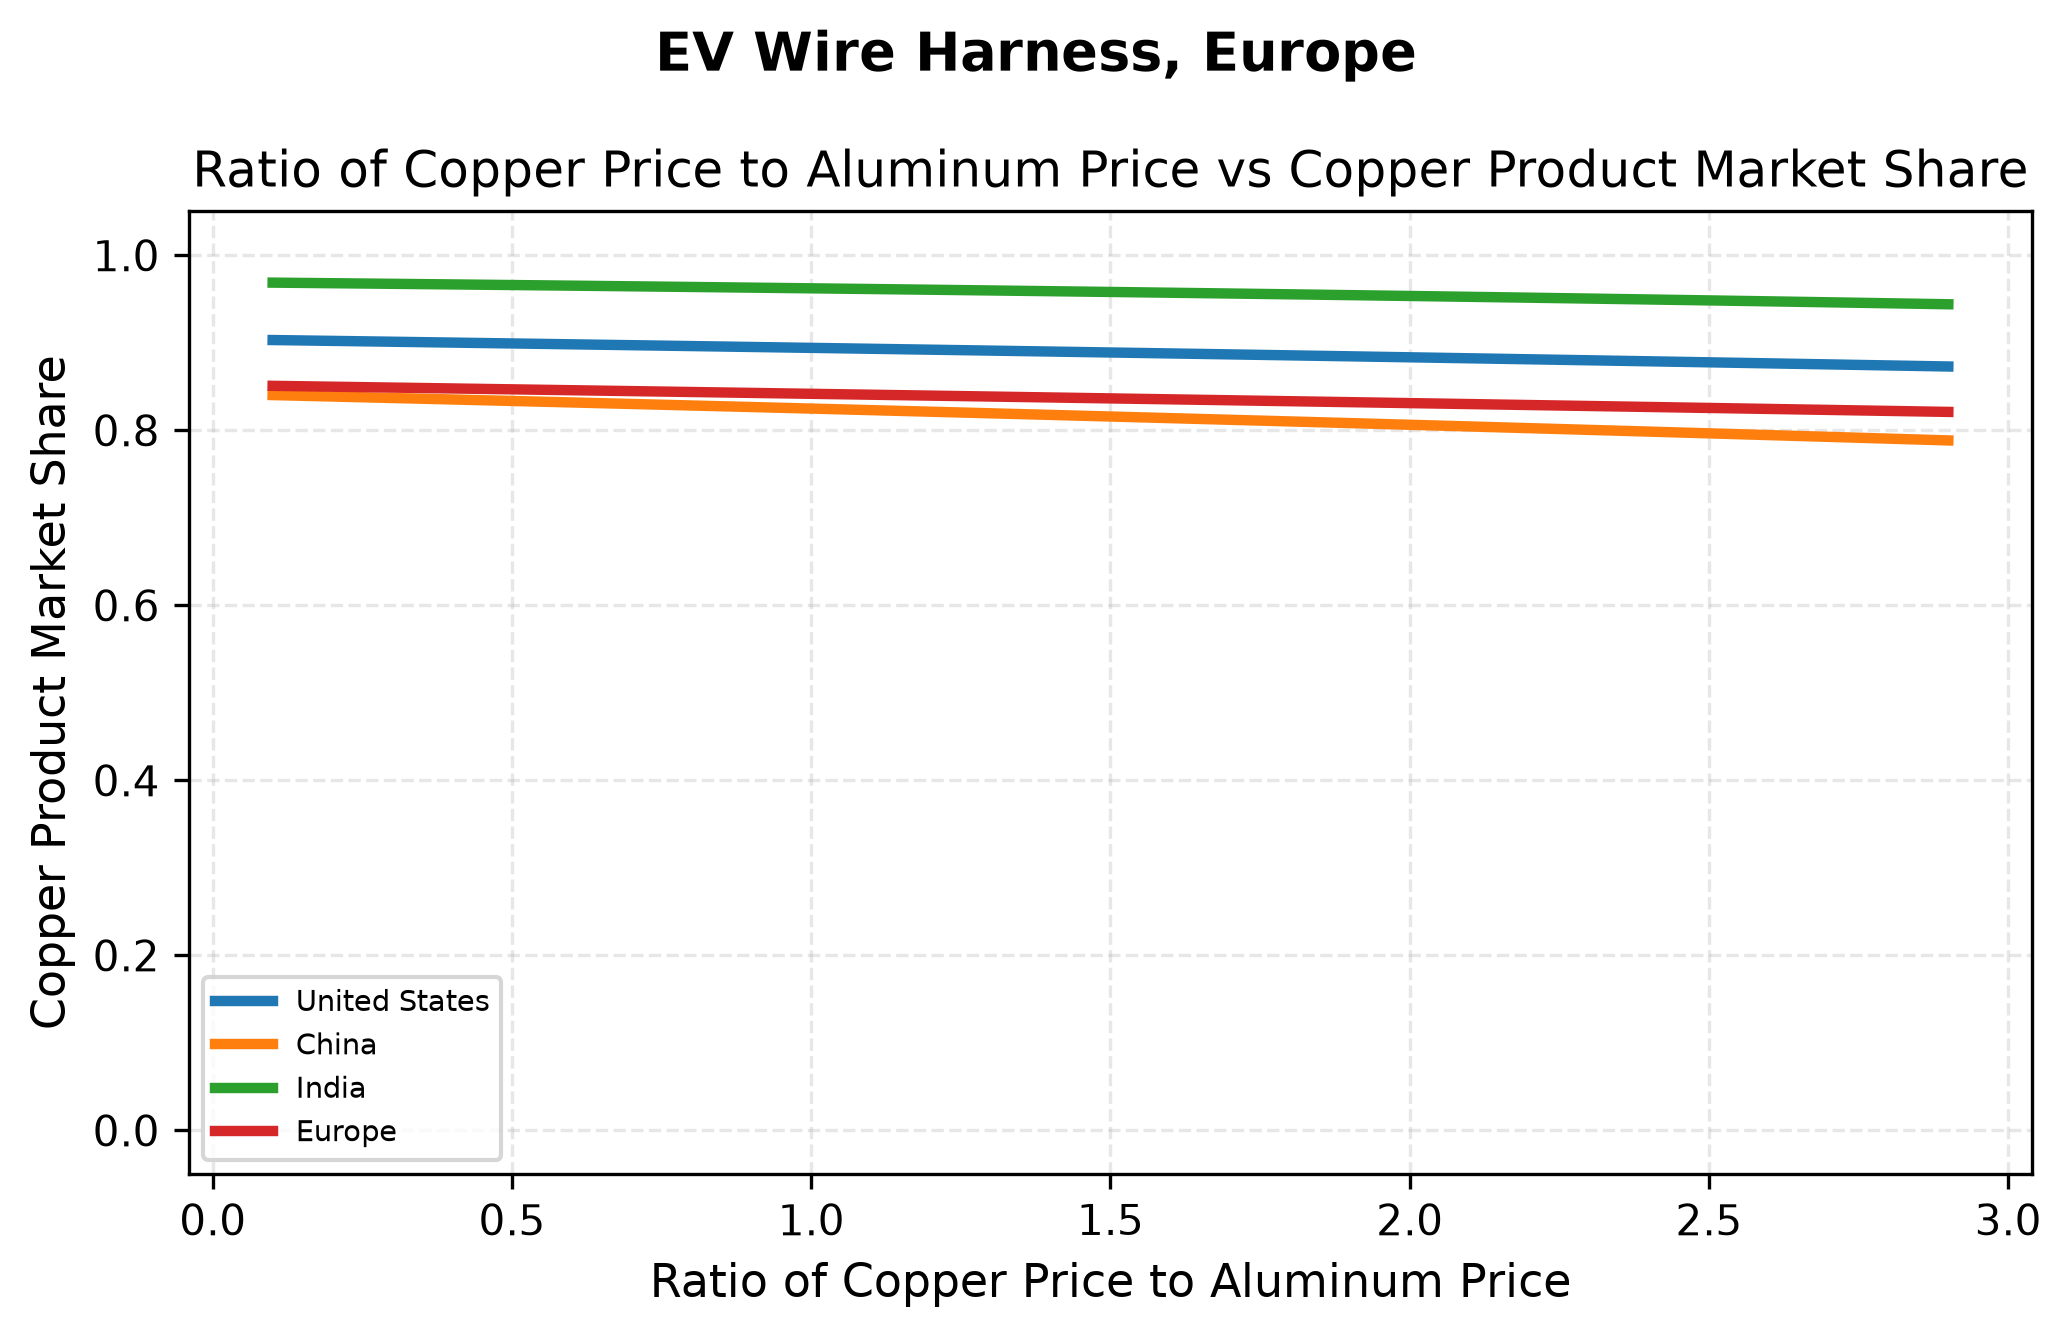
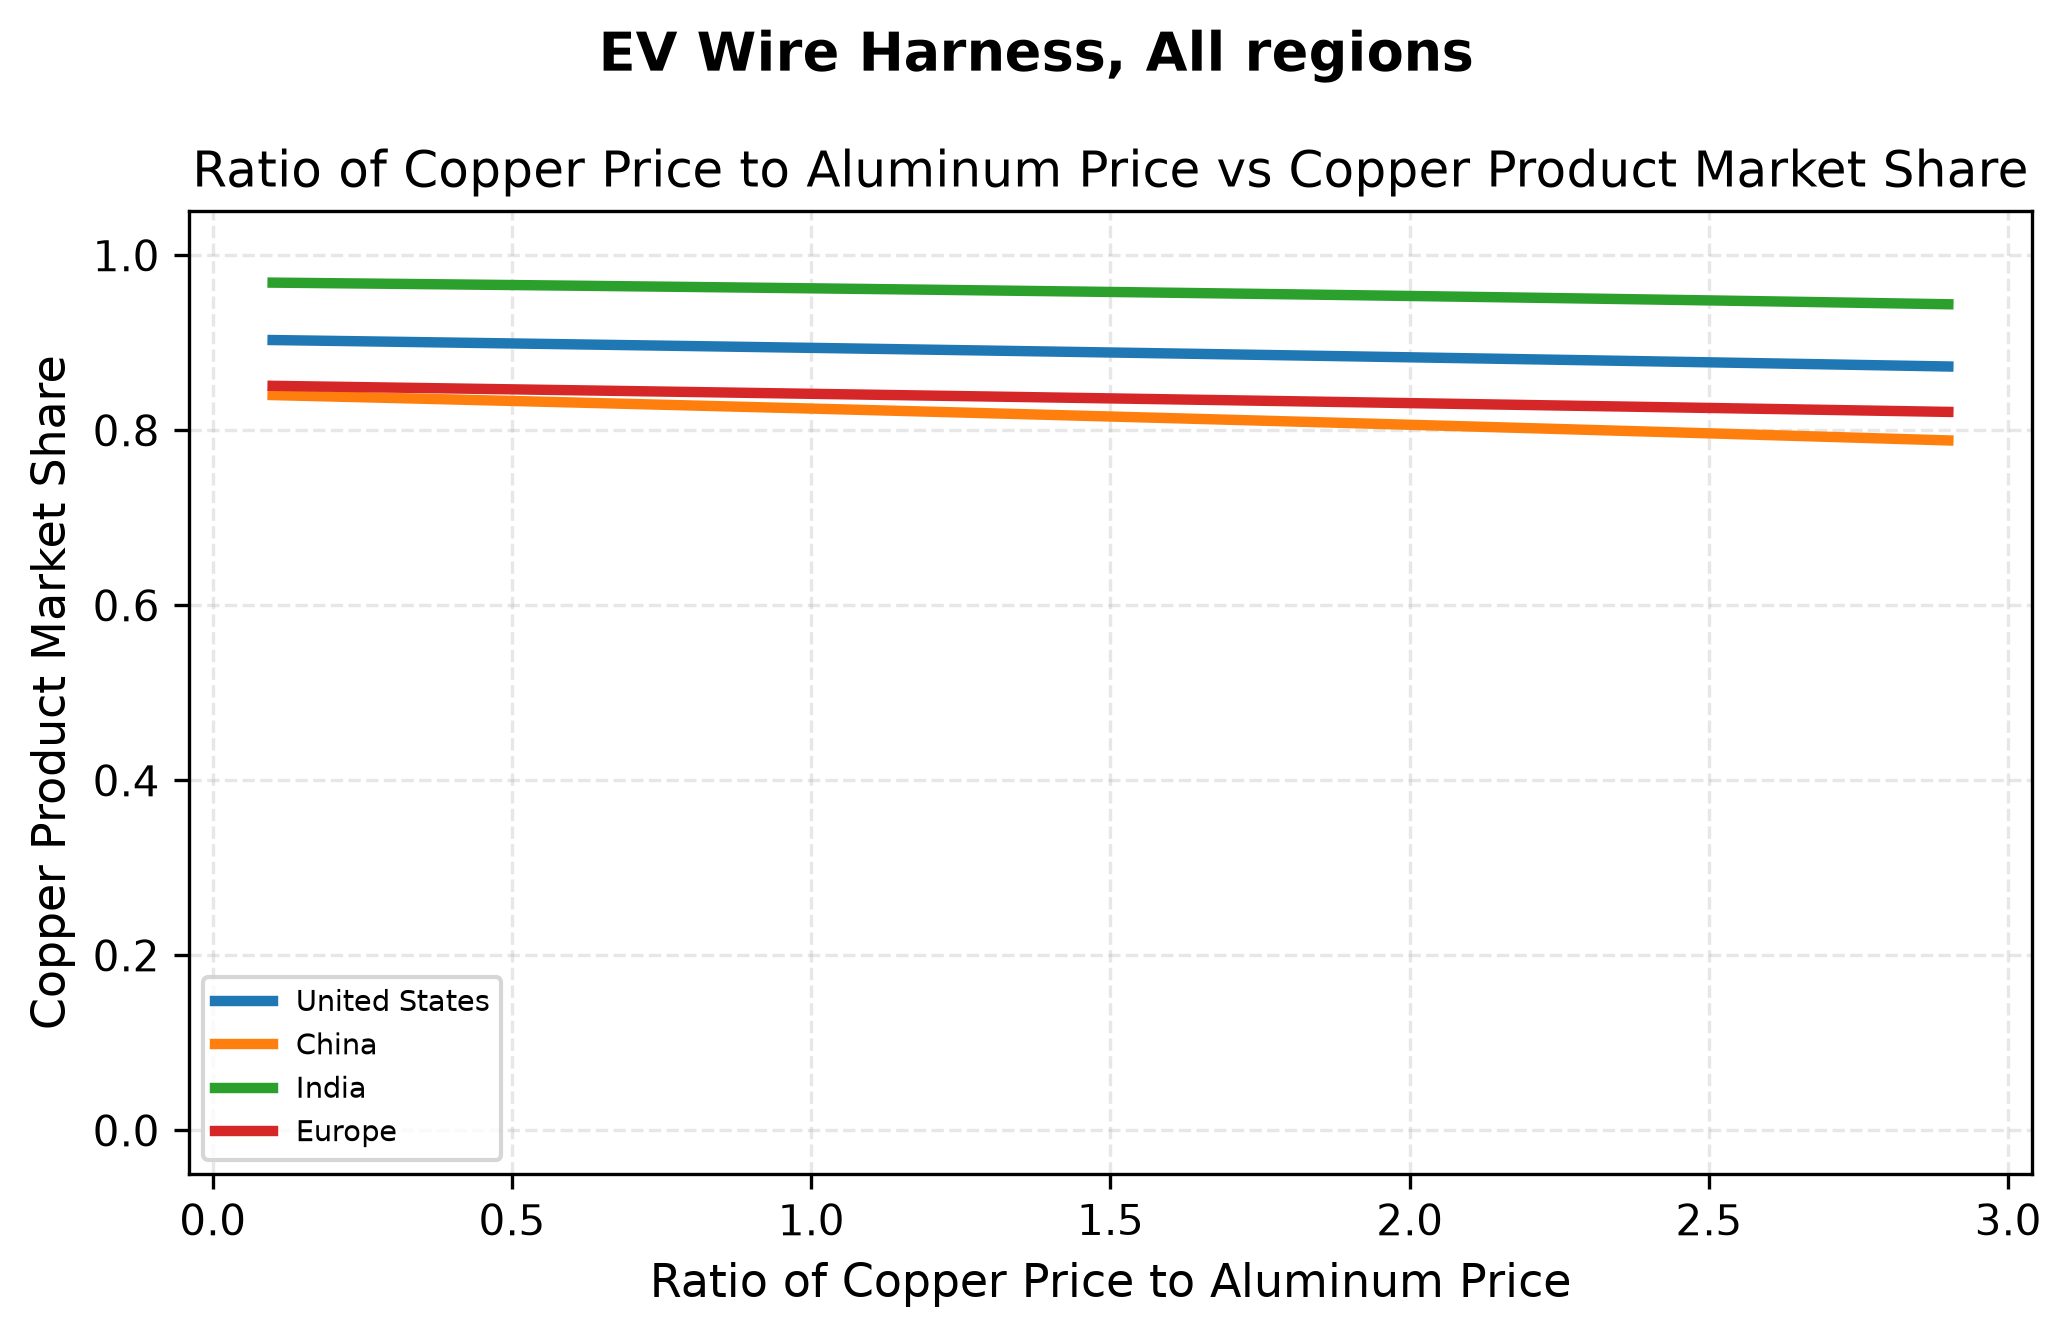
fixed region name error for all regions

Changed region(s): [[0.2781, 0.0, 0.7108, 0.0613]]

diff --git a/iter9_files/functions.py b/iter9_files/functions.py
@@ -324,9 +324,11 @@ def generate_graph(df, region, x,y, xlabel = None, material = None, save = True)
         plt.ylim(-0.05, 1.05)
         plt.grid(True, linestyle="--", alpha=0.3)
         plt.plot(x, y, linewidth=2.5, color="tab:blue", label="Computed Points")
+        plt.suptitle(f"{product}, {region}",fontsize=13, fontweight="bold")
         point_label = "Observed point"
     else:
         plt.plot(x, y, linewidth=2.5, label=region)
+        plt.suptitle(f"{product}, All regions",fontsize=13, fontweight="bold")
         point_label = f"Observed point ({region})"
     region_row = df[df["region"] == region].iloc[0]
     if material == "cu":
@@ -354,7 +356,6 @@ def generate_graph(df, region, x,y, xlabel = None, material = None, save = True)
         )
     if xlabel:
         plt.xlabel(xlabel, fontsize=11)
-        plt.suptitle(f"{product}, {region}",fontsize=13, fontweight="bold")
         plt.title(f"{xlabel} vs Copper Product Market Share")
     plt.grid(True, linestyle="--", alpha=0.3)
     plt.ylabel("Copper Product Market Share", fontsize=11)